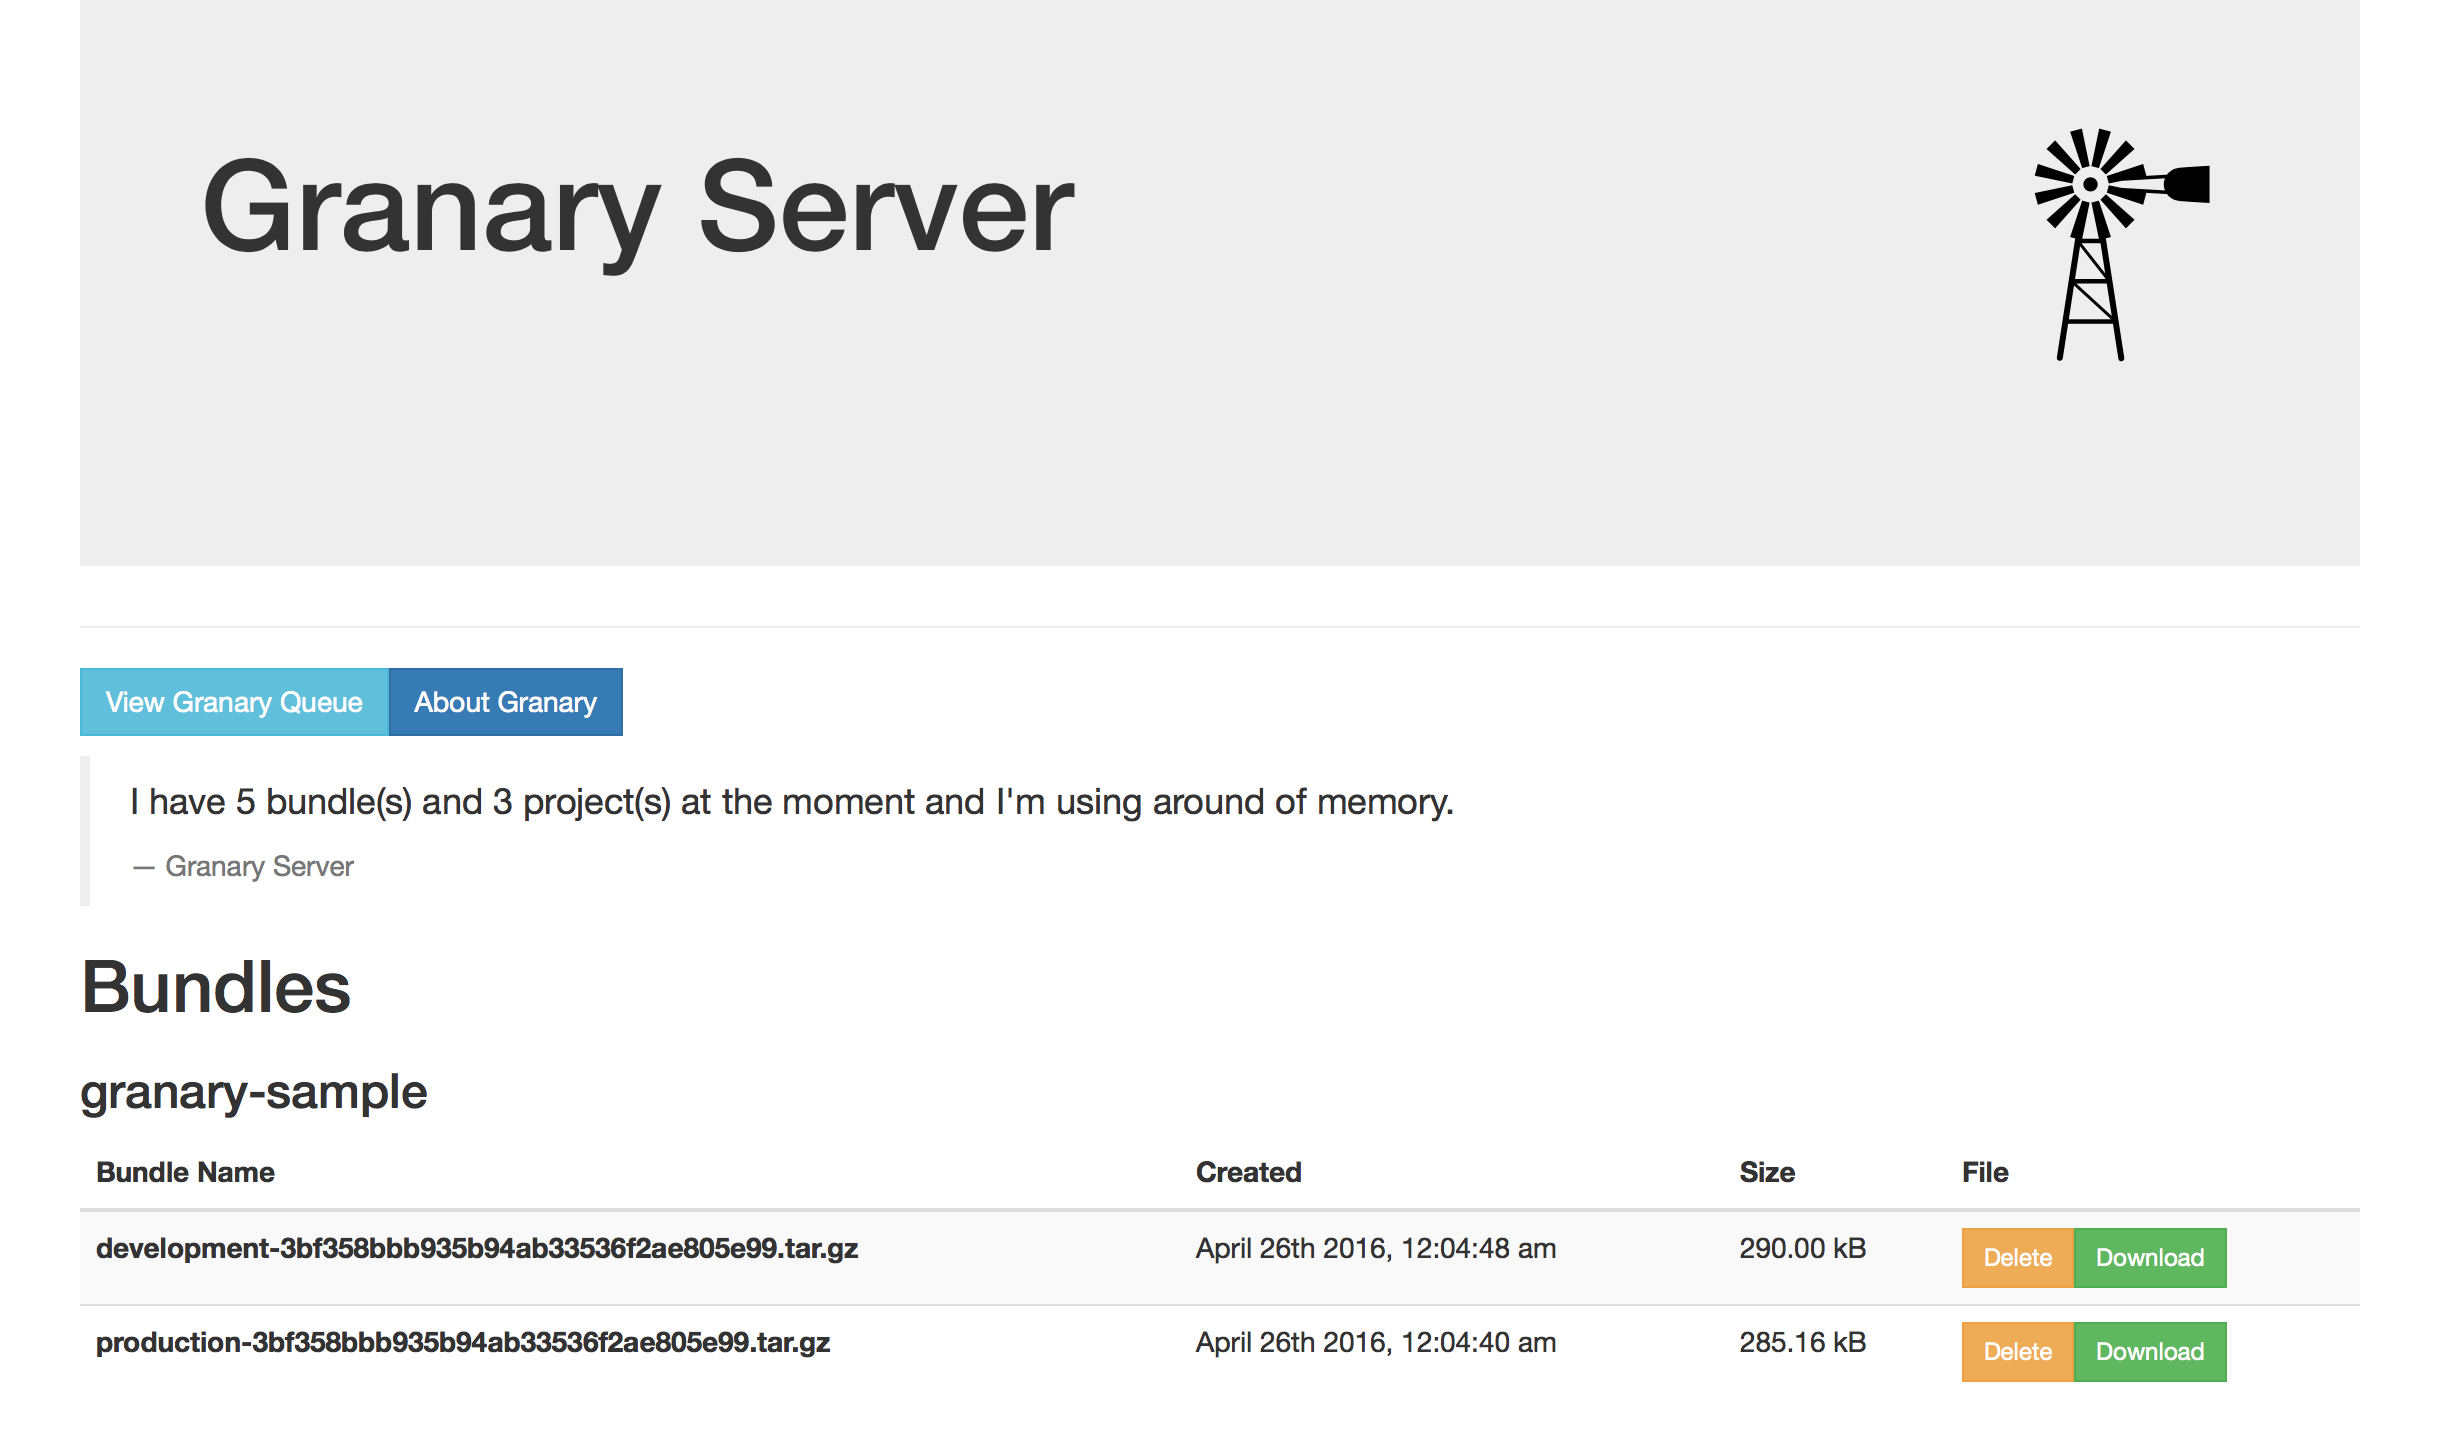
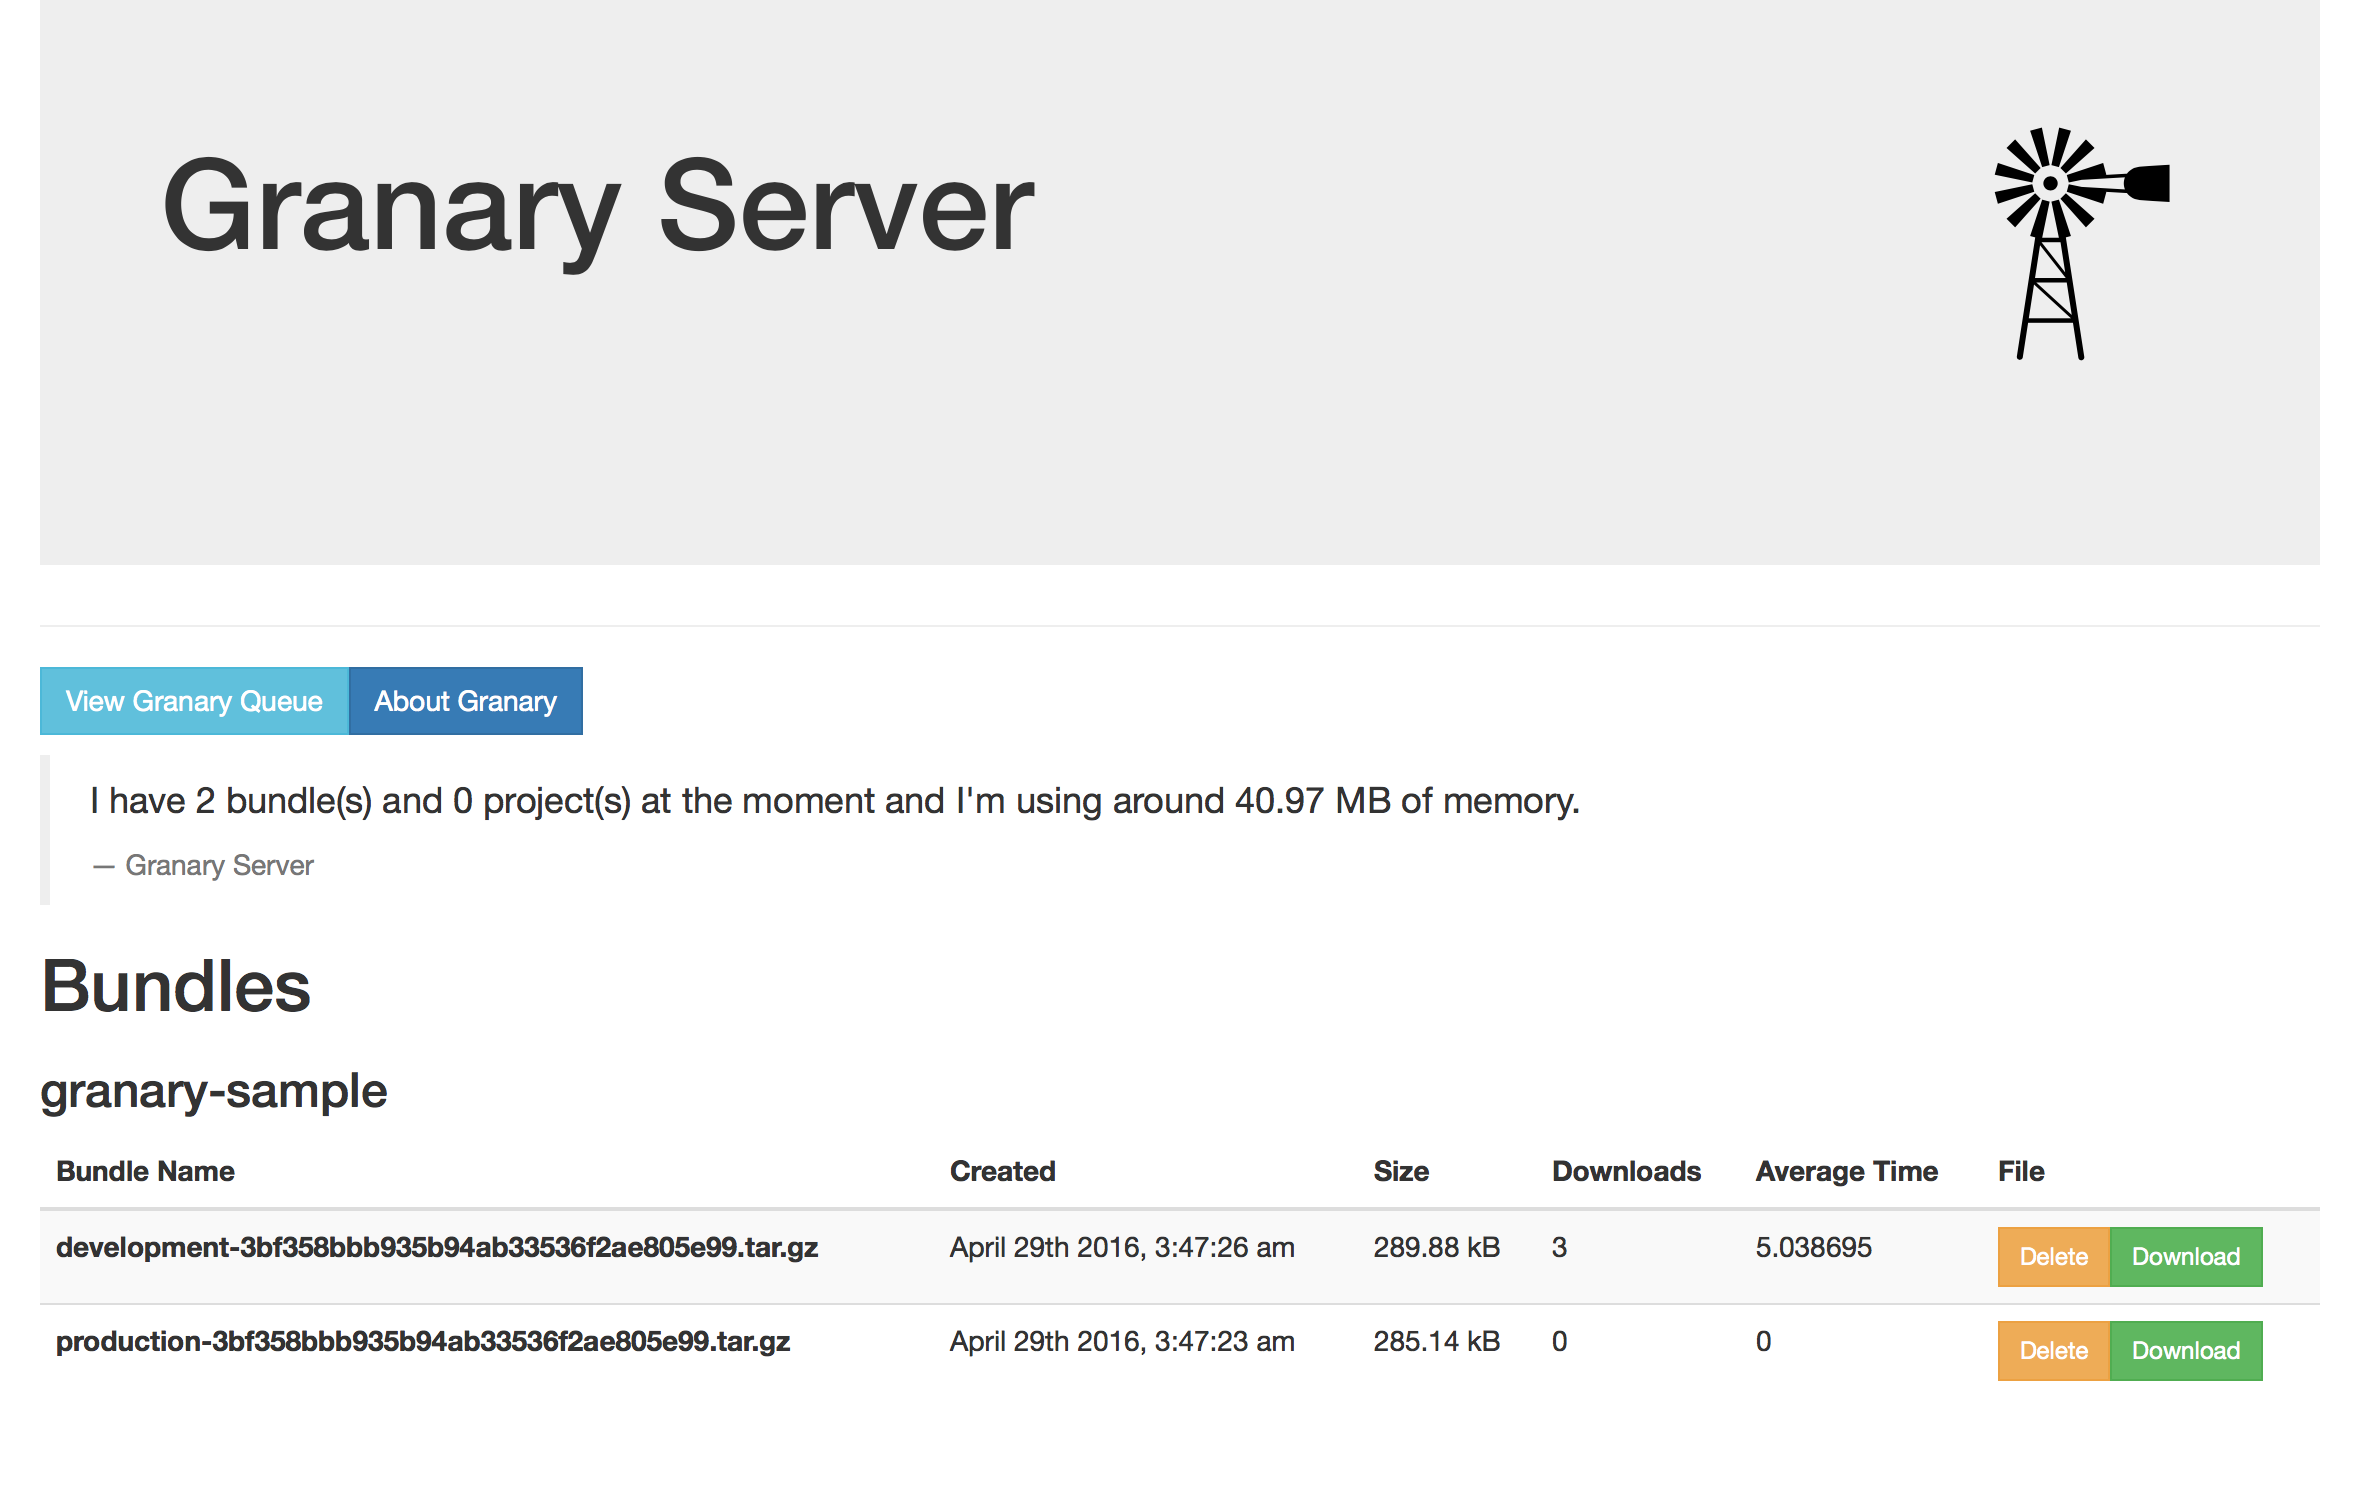
adds stats for projects adds average time, adds download time updates readme image to display new look

diff --git a/routes/granary.js b/routes/granary.js
@@ -7,8 +7,8 @@ var reds = require('reds');
 var filesize = require('filesize');
 var moment = require('moment');
 
-module.exports = function(log, conf) {
-
+module.exports = function(app, log, conf) {
+    var db = app.db;
     var processor = require('../lib/job_processor')(log);
     log.debug('Redis Configuration', conf.get('redis'));
     var jobs = kue.createQueue({
@@ -24,6 +24,7 @@ module.exports = function(log, conf) {
         return search = reds.createSearch(jobs.client.getKey('search'));
     }
 
+    // TODO: refactor into project.js
     function getProjectDetails(project) {
         // TODO: Switch to something else or keep md5?
         project.hash = project.hash || crypto.createHash('md5').update(JSON.stringify(project)).digest('hex');
@@ -46,6 +47,8 @@ module.exports = function(log, conf) {
     var freightAuth = require('../lib/auth')(log, conf);
     var Routes = {};
 
+    // TODO: refactor into ui.js
+    // TODO: refactor this using getProjectDetails
     Routes.usage = function(req, res, next) {
         var memory = process.memoryUsage();
         var storage = conf.get('storage');
@@ -103,13 +106,21 @@ module.exports = function(log, conf) {
                                 if(!data.projects[folder]) {
                                     data.projects[folder] = [];
                                 }
-                                data.projects[folder].push({
-                                    name: file,
-                                    details: stat
+                                var _file = path.join(folder, file);
+                                // TODO: refactor into project.getProjectDetails
+                                db.get(_file+'-download', function(err, downloads) {
+                                    db.get(_file+'-download-time', function(err, time) {
+                                        data.projects[folder].push({
+                                            name: file,
+                                            downloads: downloads ? downloads : 0,
+                                            avg_time: time ? time / downloads : 0,
+                                            details: stat
+                                        });
+                                        data.count.files += 1;
+                                        counter -= 1;
+                                        done();
+                                    });
                                 });
-                                data.count.files += 1;
-                                counter -= 1;
-                                done();
                             });
                         });
                     }
@@ -118,6 +129,9 @@ module.exports = function(log, conf) {
         });
     }
 
+    // TODO: refactor this
+    // TODO: send back response.state for front-end to know what state the backend is in
+    // TODO: remove the tree of if statements
     Routes.check = function(req, res) {
         if (!req.body && !req.body.project && !req.body.project.name) {
             return res.sendStatus(404);
@@ -126,6 +140,7 @@ module.exports = function(log, conf) {
         var project = req.body.project;
         var extra = req.body.extra;
 
+        // TODO: always send project back in response payload
         project = getProjectDetails(project);
 
         log.debug('Incoming Project', project, extra);

diff --git a/routes/ui.js b/routes/ui.js
@@ -1,15 +1,32 @@
 var fs = require('fs');
 var path = require('path');
 
-module.exports = function(log, conf) {
+module.exports = function(app, log, conf) {
+    var db = app.db;
     return {
         download: function(req, res) {
             if (req.params.file) {
                 log.debug('UI Bundle Download request', req.params.file);
-                var file = path.join(conf.get('storage'), req.params.file);
+                var file = path.join(conf.get('storage'), req.params.folder, req.params.file);
                 fs.exists(file, function(exists) {
                     if (exists) {
-                        return res.sendFile(file);
+                        // TODO: refactor stats into project.download
+                        // TODO: refactor file name into something less absolute
+                        var _file = path.join(req.params.folder, req.params.file);
+                        db.get(_file + '-download', function (err, value) {
+                            if (err) {
+                                db.put(_file + '-download', 1, function (err) {
+                                    console.log(err);
+                                    return res.sendFile(file);
+                                });
+                            } else {
+                                var num = 1;
+                                num += parseInt(value);
+                                db.put(_file + '-download', num, function (err) {
+                                    return res.sendFile(file);
+                                });
+                            }
+                        });
                     } else {
                         return res.sendStatus(404);
                     }
@@ -18,11 +35,12 @@ module.exports = function(log, conf) {
                 res.sendStatus(404);
             }
         },
+        // TODO: make sure we clean up the stats when we delete a project or file
         delete: function(req, res) {
             if (req.params.file) {
                 log.debug('UI Bundle Delete request', req.params.file);
                 fs.unlink(
-                    path.join(conf.get('storage'), req.params.file),
+                    path.join(conf.get('storage'), req.params.folder, req.params.file),
                     function(err) {
                         if (err) {
                             log.error(err);

diff --git a/index.js b/index.js
@@ -7,8 +7,11 @@ var mkdirp = require('mkdirp');
 var conf = require('./config/config')();
 var log = require('./lib/log')(conf);
 var kue = require('kue');
+var levelup = require('levelup');
+var responseTime = require('response-time');
 
 var app = express();
+app.db = levelup('./db');
 app.conf = conf;
 app.log = log;
 
@@ -16,6 +19,24 @@ app.set('views', path.join(__dirname, 'views'));
 app.set('view engine', 'jade');
 app.use('/static', express.static(path.join(__dirname, 'views/static')));
 
+app.use(responseTime(function(req, res, time) {
+    if(req.route.path == '/ui/download/:folder/:file') {
+        var file = req.originalUrl.replace('/ui/download/', '');
+        app.db.get(file+'-download-time', function(err, value) {
+            if (err) {
+                app.db.put(file+'-download-time', time, function(err) {
+                    return;
+                });
+            } else {
+                value = parseInt(value);
+                value += time;
+                app.db.put(file+'-download-time', value, function(err) {
+                    return;
+                });
+            }
+        });
+    }
+}));
 app.use(bodyParser.json({
     limit: conf.get('limit') + 'kb'
 }));

diff --git a/routes/index.js b/routes/index.js
@@ -1,15 +1,15 @@
 module.exports = function(app, log, conf) {
     var Auth = require('../lib/auth')(log, conf);
-    var Granary = require('./granary')(log, conf);
-    var UI = require('./ui')(log, conf);
+    var Granary = require('./granary')(app, log, conf);
+    var UI = require('./ui')(app, log, conf);
 
     app.get('/', Granary.usage, function(req, res) {
         res.render('index', req.data);
     });
 
-    app.get('/ui/download/:file', Auth.middleware, UI.download);
+    app.get('/ui/download/:folder/:file', Auth.middleware, UI.download);
     // TODO: temporary, quick way to add delete
-    app.get('/ui/delete/:file', Auth.middleware, UI.delete);
+    app.get('/ui/delete/:folder/:file', Auth.middleware, UI.delete);
 
     app.post('/granary/check', Granary.check);
     app.post('/granary/download', Granary.download);
